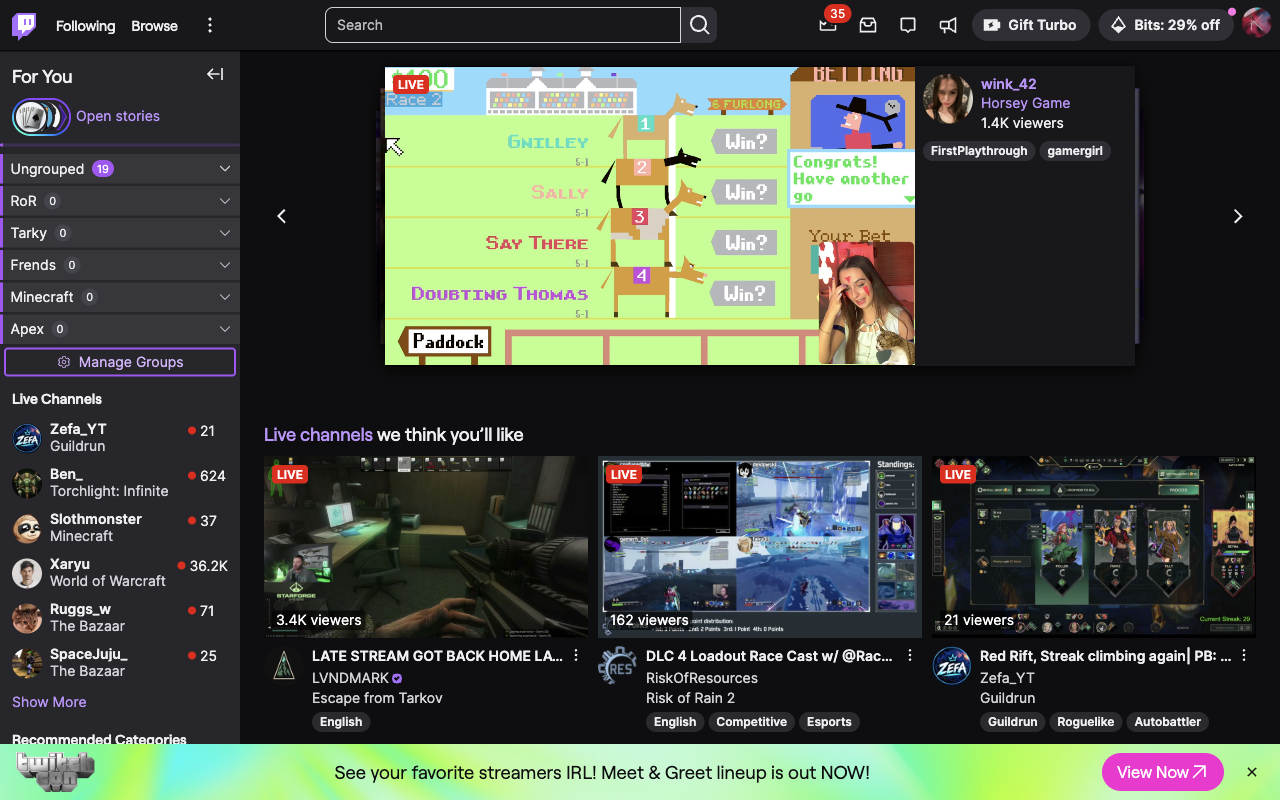
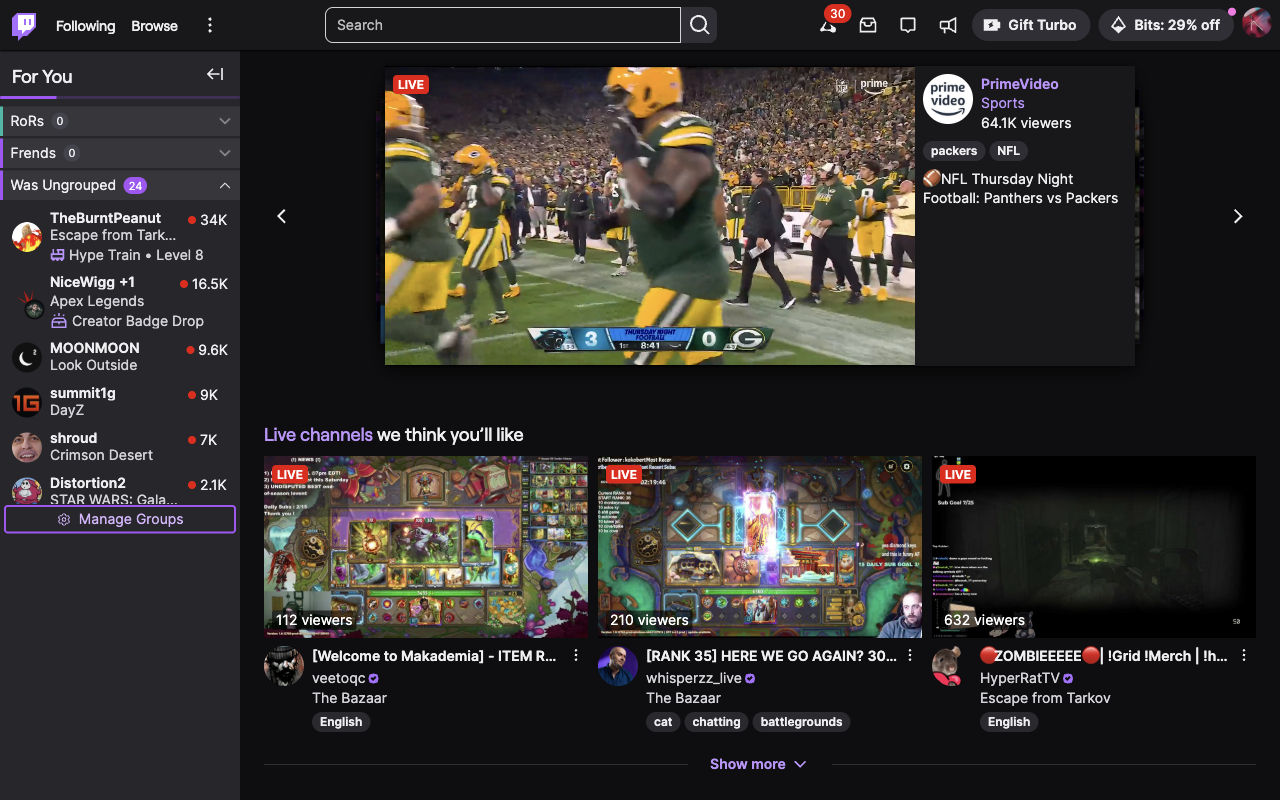
chore: new Chrome Web Store screenshots, and an empty backlog
The hide-toggle sync is dropped, so nothing is left in the backlog.

diff --git a/docs/backlog.md b/docs/backlog.md
@@ -1,5 +1,3 @@
 # Backlog
 
-## Sync the hide toggles across devices
-
-Groups sync across the Chrome profile; the popup's hide toggles (original followers list, stories, live channels, streaks, recommended categories, "viewers also watch") stay on each device. Consider syncing them through the same hash and merge machinery (`src/pages/shared/groupsSync`). Open question: whether some should stay per device (for example hiding sections on a small laptop screen only), which would need a per-toggle choice or a "sync settings" switch of its own.
+Nothing left for now.
